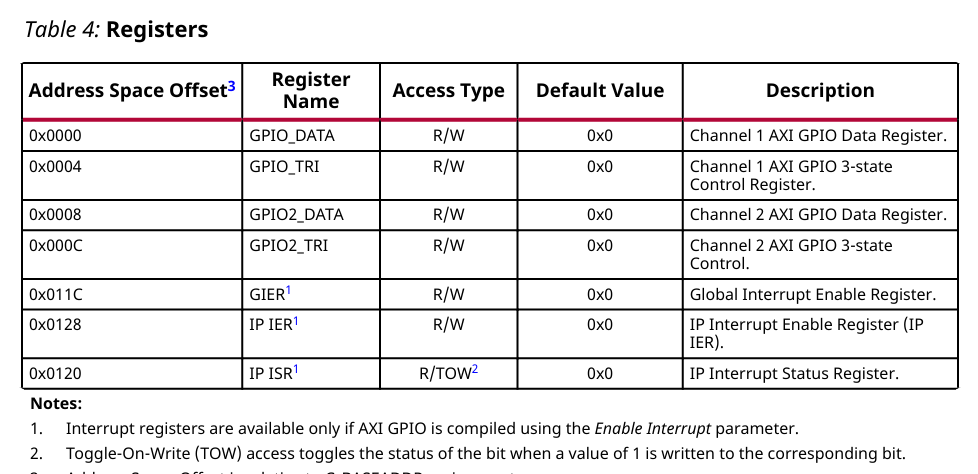
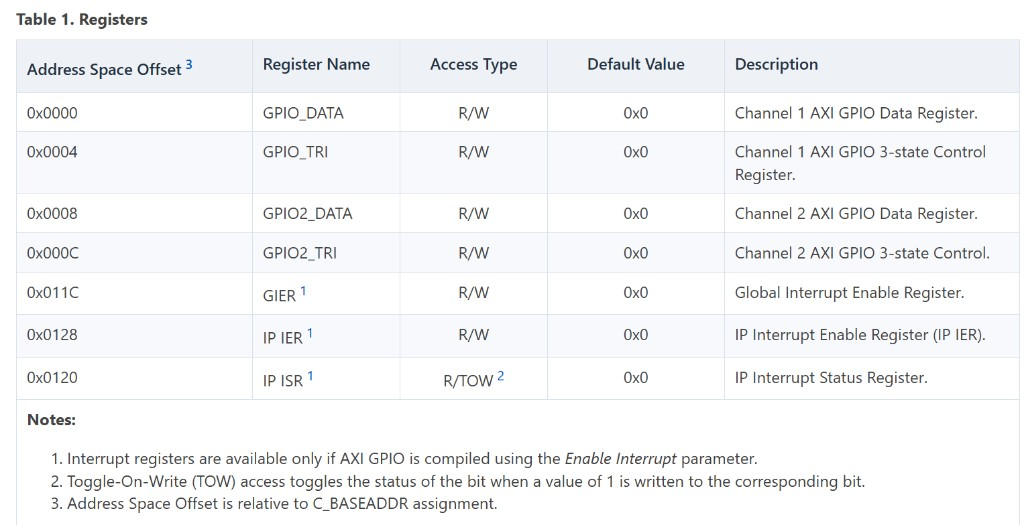
Update AXI GPIO register map figure in Part 3.

Changed region(s): [[0.0, 0.0886, 0.9816, 1.0], [0.0, 0.0295, 0.2147, 0.0886], [0.5215, 0.3544, 0.5521, 0.384]]

diff --git a/posts/embedded_linux/embedded-linux-zynq-soc-part-3.md b/posts/embedded_linux/embedded-linux-zynq-soc-part-3.md
@@ -264,7 +264,7 @@ These are the AXI GPIO registers we care about (offsets from the IP base address
 
 ![][image4]
 
-**Figure 3: AXI GPIO register map (data + interrupt registers).**
+**Figure 3: AXI GPIO register map.**
 
 Notes that matter for the app:
 
